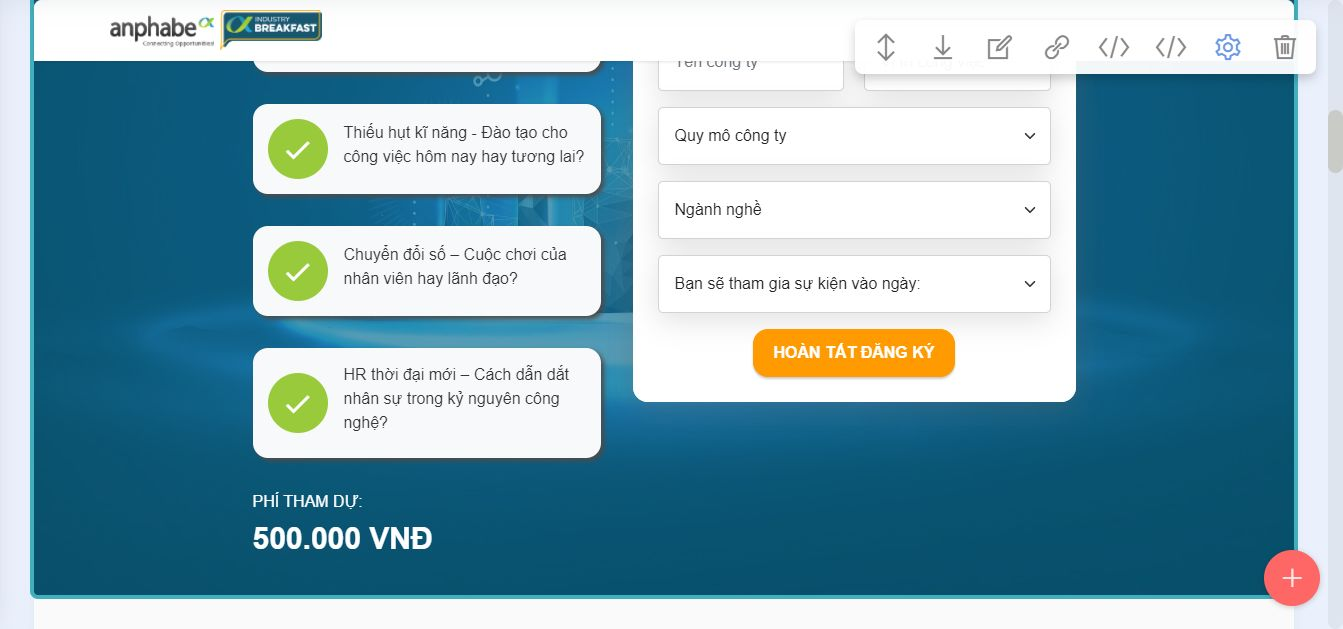
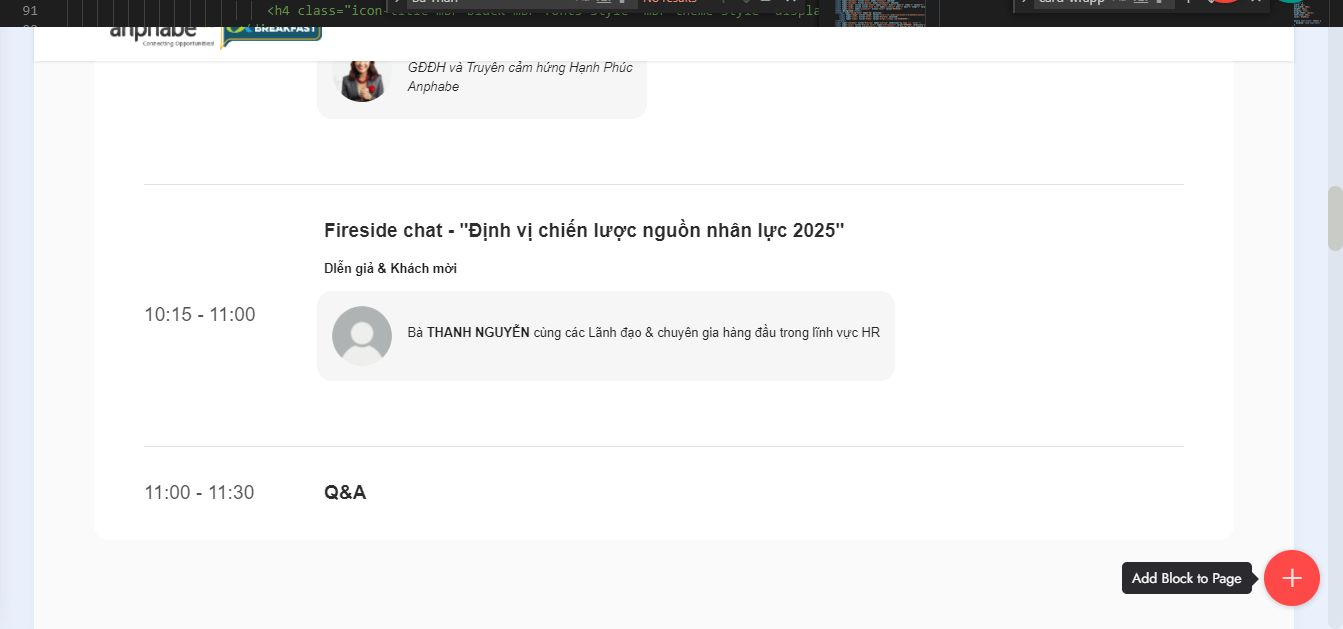
up

diff --git a/c/breakfast/index.html b/c/breakfast/index.html
@@ -97,7 +97,7 @@ overflow-x: hidden;
     </div>
 </section>
 
-<section data-bs-version="5.1" class="header9 cid-u6319yKajZ mbr-parallax-background" id="formlead_new" data-rv-view="3628">
+<section data-bs-version="5.1" class="header9 cid-u6319yKajZ mbr-parallax-background" id="formlead_new" data-rv-view="3747">
 
     
 
@@ -105,9 +105,9 @@ overflow-x: hidden;
 
     <div class="container">           
         <div class="row justify-content-center align-items-top main-container">
-        <h4 class="mbr-section-subtitle align-center mbr-fonts-style mb-2 display-5"><em><strong>Báo cáo nguồn nhân lực 2025:</strong></em></h4>            
-        <h4 class="mbr-section-title mbr-fonts-style mb-2 display-2"><p><strong>5 THÁCH THỨC SỐNG CÒN MÀ LÃNH ĐẠO HR PHẢI ĐỐI MẶT </strong><strong>TRONG 2025</strong></p></h4>
-        <h4 class="mbr-section-subtitle align-center mbr-fonts-style mb-4 display-5">Vượt thách thức - Chớp cơ hội</h4>
+        <!--<h4 class="mbr-section-subtitle align-center mbr-fonts-style mb-2" mbr-if="showSubtitle" data-app-selector=".mbr-section-subtitle" mbr-theme-style="display-5"><i><b>Báo cáo nguồn nhân lực 2025:</b></i></h4>            
+        <h4 class="mbr-section-title mbr-fonts-style mb-2" mbr-theme-style="display-2" mbr-if="showTitle" data-app-selector=".mbr-section-title, .card-box"><p><b>5 THÁCH THỨC SỐNG CÒN MÀ LÃNH ĐẠO HR PHẢI ĐỐI MẶT </b><b>TRONG 2025</b></p></h4>
+        <h4 class="mbr-section-subtitle align-center mbr-fonts-style mb-4" mbr-if="showSubtitle" data-app-selector=".mbr-section-subtitle" mbr-theme-style="display-5">Vượt thách thức - Chớp cơ hội</h4>-->
             <div class="col-12 col-md col-lg-5">                
                 <!--- FORM -->
                 <div class="mx-auto mbr-form">
@@ -382,9 +382,9 @@ overflow-x: hidden;
                                 </div>
                                 <ul class="speaker-list">         
                                     <li>
-                                        <div class="speaker-img">
-                                            <img src="assets/images/profile.webp" alt="">
-                                        </div>
+                                        <!--<div class="speaker-img">
+                                            <img src="assets/images/profile.webp" alt>
+                                        </div>-->
                                         <div class="speaker-detail">
                                             <h4 class="icon-title mbr-black mbr-fonts-style display-7">
                                                 Bà <strong>THANH NGUYỄN </strong>cùng các Lãnh đạo &amp; chuyên gia hàng đầu trong lĩnh vực HR<br></h4>
@@ -474,13 +474,13 @@ overflow-x: hidden;
                         <div class="card mb-3">
                             <div class="card-header" role="tab" id="headingOne">
                                 <a role="button" class="collapsed panel-title text-black" data-toggle="collapse" data-bs-toggle="collapse" data-core="" href="#collapse1_6" aria-expanded="false" aria-controls="collapse1">
-                                    <h6 class="panel-title-edit mbr-fonts-style mb-0 display-7"><strong>Chuỗi sự kiện Industry Breakfast là gì?</strong></h6>
+                                    <h6 class="panel-title-edit mbr-fonts-style mb-0 display-7"><strong>Chuỗi sự kiện Anpha Breakfast là gì?</strong></h6>
                                     <span class="sign mbr-iconfont mbri-arrow-down"></span>
                                 </a>
                             </div>
                             <div id="collapse1_6" class="panel-collapse noScroll collapse" role="tabpanel" aria-labelledby="headingOne">
                                 <div class="panel-body">
-                                    <p class="mbr-fonts-style panel-text display-7">Industry Breakfast&nbsp; là chuỗi sự kiện được Anphabe tổ chức thường xuyên nhằm tạo cơ hội cho các Giám đốc và Quản lý Nhân sự tham gia và cập nhật những xu hướng nhân sự mới nhất trong ngành để từ đó biết được mình cần phải làm gì để tiếp lửa nội lực và giữ vững niềm tin cho nhân viên, tối ưu giá trị nguồn nhân lực. </p>
+                                    <p class="mbr-fonts-style panel-text display-7">Anpha Breakfast&nbsp; là chuỗi sự kiện được Anphabe tổ chức thường xuyên nhằm tạo cơ hội cho các Giám đốc và Quản lý Nhân sự tham gia và cập nhật những xu hướng nhân sự mới nhất trong ngành để từ đó biết được mình cần phải làm gì để tiếp lửa nội lực và giữ vững niềm tin cho nhân viên, tối ưu giá trị nguồn nhân lực. </p>
                                 </div>
                             </div>
                         </div>
@@ -591,8 +591,8 @@ overflow-x: hidden;
         
         <div class="row mbr-gallery mt-4">
             <div class="col-12 col-md-6 col-lg-2 item gallery-image">
-                <div class="item-wrapper" data-toggle="modal" data-bs-toggle="modal" data-target="#uFXNRJhJMR-modal" data-bs-target="#uFXNRJhJMR-modal">
-                    <img class="w-100" src="assets/images/industrybreakfast-img-1.webp" alt="" data-slide-to="0" data-bs-slide-to="0" data-target="#lb-uFXNRJhJMR" data-bs-target="#lb-uFXNRJhJMR">
+                <div class="item-wrapper" data-toggle="modal" data-bs-toggle="modal" data-target="#uFXRHMcFBw-modal" data-bs-target="#uFXRHMcFBw-modal">
+                    <img class="w-100" src="assets/images/industrybreakfast-img-1.webp" alt="" data-slide-to="0" data-bs-slide-to="0" data-target="#lb-uFXRHMcFBw" data-bs-target="#lb-uFXRHMcFBw">
                     <div class="icon-wrapper">
                         <span class="mobi-mbri mobi-mbri-search mbr-iconfont mbr-iconfont-btn"></span>
                     </div>
@@ -600,8 +600,8 @@ overflow-x: hidden;
                 
             </div>
             <div class="col-12 col-md-6 col-lg-2 item gallery-image">
-                <div class="item-wrapper" data-toggle="modal" data-bs-toggle="modal" data-target="#uFXNRJhJMR-modal" data-bs-target="#uFXNRJhJMR-modal">
-                    <img class="w-100" src="assets/images/industrybreakfast-img-2.webp" alt="" data-slide-to="1" data-bs-slide-to="1" data-target="#lb-uFXNRJhJMR" data-bs-target="#lb-uFXNRJhJMR">
+                <div class="item-wrapper" data-toggle="modal" data-bs-toggle="modal" data-target="#uFXRHMcFBw-modal" data-bs-target="#uFXRHMcFBw-modal">
+                    <img class="w-100" src="assets/images/industrybreakfast-img-2.webp" alt="" data-slide-to="1" data-bs-slide-to="1" data-target="#lb-uFXRHMcFBw" data-bs-target="#lb-uFXRHMcFBw">
                     <div class="icon-wrapper">
                         <span class="mobi-mbri mobi-mbri-search mbr-iconfont mbr-iconfont-btn"></span>
                     </div>
@@ -609,8 +609,8 @@ overflow-x: hidden;
                 
             </div>
             <div class="col-12 col-md-6 col-lg-2 item gallery-image">
-                <div class="item-wrapper" data-toggle="modal" data-bs-toggle="modal" data-target="#uFXNRJhJMR-modal" data-bs-target="#uFXNRJhJMR-modal">
-                    <img class="w-100" src="assets/images/industrybreakfast-img-3.webp" alt="" data-slide-to="2" data-bs-slide-to="2" data-target="#lb-uFXNRJhJMR" data-bs-target="#lb-uFXNRJhJMR">
+                <div class="item-wrapper" data-toggle="modal" data-bs-toggle="modal" data-target="#uFXRHMcFBw-modal" data-bs-target="#uFXRHMcFBw-modal">
+                    <img class="w-100" src="assets/images/industrybreakfast-img-3.webp" alt="" data-slide-to="2" data-bs-slide-to="2" data-target="#lb-uFXRHMcFBw" data-bs-target="#lb-uFXRHMcFBw">
                     <div class="icon-wrapper">
                         <span class="mobi-mbri mobi-mbri-search mbr-iconfont mbr-iconfont-btn"></span>
                     </div>
@@ -618,72 +618,72 @@ overflow-x: hidden;
                 
             </div>
             <div class="col-12 col-md-6 col-lg-2 item gallery-image">
-                <div class="item-wrapper" data-toggle="modal" data-bs-toggle="modal" data-target="#uFXNRJhJMR-modal" data-bs-target="#uFXNRJhJMR-modal">
-                    <img class="w-100" src="assets/images/industrybreakfast-img-4.webp" alt="" data-slide-to="3" data-bs-slide-to="3" data-target="#lb-uFXNRJhJMR" data-bs-target="#lb-uFXNRJhJMR">
+                <div class="item-wrapper" data-toggle="modal" data-bs-toggle="modal" data-target="#uFXRHMcFBw-modal" data-bs-target="#uFXRHMcFBw-modal">
+                    <img class="w-100" src="assets/images/industrybreakfast-img-4.webp" alt="" data-slide-to="3" data-bs-slide-to="3" data-target="#lb-uFXRHMcFBw" data-bs-target="#lb-uFXRHMcFBw">
                     <div class="icon-wrapper">
                         <span class="mobi-mbri mobi-mbri-search mbr-iconfont mbr-iconfont-btn"></span>
                     </div>
                 </div>
                 
             </div><div class="col-12 col-md-6 col-lg-2 item gallery-image">
-                <div class="item-wrapper" data-toggle="modal" data-bs-toggle="modal" data-target="#uFXNRJhJMR-modal" data-bs-target="#uFXNRJhJMR-modal">
-                    <img class="w-100" src="assets/images/industrybreakfast-img-5.webp" alt="" data-slide-to="4" data-bs-slide-to="4" data-target="#lb-uFXNRJhJMR" data-bs-target="#lb-uFXNRJhJMR">
+                <div class="item-wrapper" data-toggle="modal" data-bs-toggle="modal" data-target="#uFXRHMcFBw-modal" data-bs-target="#uFXRHMcFBw-modal">
+                    <img class="w-100" src="assets/images/industrybreakfast-img-5.webp" alt="" data-slide-to="4" data-bs-slide-to="4" data-target="#lb-uFXRHMcFBw" data-bs-target="#lb-uFXRHMcFBw">
                     <div class="icon-wrapper">
                         <span class="mobi-mbri mobi-mbri-search mbr-iconfont mbr-iconfont-btn"></span>
                     </div>
                 </div>
                 
             </div><div class="col-12 col-md-6 col-lg-2 item gallery-image">
-                <div class="item-wrapper" data-toggle="modal" data-bs-toggle="modal" data-target="#uFXNRJhJMR-modal" data-bs-target="#uFXNRJhJMR-modal">
-                    <img class="w-100" src="assets/images/industrybreakfast-img-6.webp" alt="" data-slide-to="5" data-bs-slide-to="5" data-target="#lb-uFXNRJhJMR" data-bs-target="#lb-uFXNRJhJMR">
+                <div class="item-wrapper" data-toggle="modal" data-bs-toggle="modal" data-target="#uFXRHMcFBw-modal" data-bs-target="#uFXRHMcFBw-modal">
+                    <img class="w-100" src="assets/images/industrybreakfast-img-6.webp" alt="" data-slide-to="5" data-bs-slide-to="5" data-target="#lb-uFXRHMcFBw" data-bs-target="#lb-uFXRHMcFBw">
                     <div class="icon-wrapper">
                         <span class="mobi-mbri mobi-mbri-search mbr-iconfont mbr-iconfont-btn"></span>
                     </div>
                 </div>
                 
             </div><div class="col-12 col-md-6 col-lg-2 item gallery-image">
-                <div class="item-wrapper" data-toggle="modal" data-bs-toggle="modal" data-target="#uFXNRJhJMR-modal" data-bs-target="#uFXNRJhJMR-modal">
-                    <img class="w-100" src="assets/images/industrybreakfast-img-7.webp" alt="" data-slide-to="6" data-bs-slide-to="6" data-target="#lb-uFXNRJhJMR" data-bs-target="#lb-uFXNRJhJMR">
+                <div class="item-wrapper" data-toggle="modal" data-bs-toggle="modal" data-target="#uFXRHMcFBw-modal" data-bs-target="#uFXRHMcFBw-modal">
+                    <img class="w-100" src="assets/images/industrybreakfast-img-7.webp" alt="" data-slide-to="6" data-bs-slide-to="6" data-target="#lb-uFXRHMcFBw" data-bs-target="#lb-uFXRHMcFBw">
                     <div class="icon-wrapper">
                         <span class="mobi-mbri mobi-mbri-search mbr-iconfont mbr-iconfont-btn"></span>
                     </div>
                 </div>
                 
             </div><div class="col-12 col-md-6 col-lg-2 item gallery-image">
-                <div class="item-wrapper" data-toggle="modal" data-bs-toggle="modal" data-target="#uFXNRJhJMR-modal" data-bs-target="#uFXNRJhJMR-modal">
-                    <img class="w-100" src="assets/images/industrybreakfast-img-8.webp" alt="" data-slide-to="7" data-bs-slide-to="7" data-target="#lb-uFXNRJhJMR" data-bs-target="#lb-uFXNRJhJMR">
+                <div class="item-wrapper" data-toggle="modal" data-bs-toggle="modal" data-target="#uFXRHMcFBw-modal" data-bs-target="#uFXRHMcFBw-modal">
+                    <img class="w-100" src="assets/images/industrybreakfast-img-8.webp" alt="" data-slide-to="7" data-bs-slide-to="7" data-target="#lb-uFXRHMcFBw" data-bs-target="#lb-uFXRHMcFBw">
                     <div class="icon-wrapper">
                         <span class="mobi-mbri mobi-mbri-search mbr-iconfont mbr-iconfont-btn"></span>
                     </div>
                 </div>
                 
             </div><div class="col-12 col-md-6 col-lg-2 item gallery-image">
-                <div class="item-wrapper" data-toggle="modal" data-bs-toggle="modal" data-target="#uFXNRJhJMR-modal" data-bs-target="#uFXNRJhJMR-modal">
-                    <img class="w-100" src="assets/images/industrybreakfast-img-9.webp" alt="" data-slide-to="8" data-bs-slide-to="8" data-target="#lb-uFXNRJhJMR" data-bs-target="#lb-uFXNRJhJMR">
+                <div class="item-wrapper" data-toggle="modal" data-bs-toggle="modal" data-target="#uFXRHMcFBw-modal" data-bs-target="#uFXRHMcFBw-modal">
+                    <img class="w-100" src="assets/images/industrybreakfast-img-9.webp" alt="" data-slide-to="8" data-bs-slide-to="8" data-target="#lb-uFXRHMcFBw" data-bs-target="#lb-uFXRHMcFBw">
                     <div class="icon-wrapper">
                         <span class="mobi-mbri mobi-mbri-search mbr-iconfont mbr-iconfont-btn"></span>
                     </div>
                 </div>
                 
             </div><div class="col-12 col-md-6 col-lg-2 item gallery-image">
-                <div class="item-wrapper" data-toggle="modal" data-bs-toggle="modal" data-target="#uFXNRJhJMR-modal" data-bs-target="#uFXNRJhJMR-modal">
-                    <img class="w-100" src="assets/images/industrybreakfast-img-10.webp" alt="" data-slide-to="9" data-bs-slide-to="9" data-target="#lb-uFXNRJhJMR" data-bs-target="#lb-uFXNRJhJMR">
+                <div class="item-wrapper" data-toggle="modal" data-bs-toggle="modal" data-target="#uFXRHMcFBw-modal" data-bs-target="#uFXRHMcFBw-modal">
+                    <img class="w-100" src="assets/images/industrybreakfast-img-10.webp" alt="" data-slide-to="9" data-bs-slide-to="9" data-target="#lb-uFXRHMcFBw" data-bs-target="#lb-uFXRHMcFBw">
                     <div class="icon-wrapper">
                         <span class="mobi-mbri mobi-mbri-search mbr-iconfont mbr-iconfont-btn"></span>
                     </div>
                 </div>
                 
             </div><div class="col-12 col-md-6 col-lg-2 item gallery-image">
-                <div class="item-wrapper" data-toggle="modal" data-bs-toggle="modal" data-target="#uFXNRJhJMR-modal" data-bs-target="#uFXNRJhJMR-modal">
-                    <img class="w-100" src="assets/images/industrybreakfast-img-11.webp" alt="" data-slide-to="10" data-bs-slide-to="10" data-target="#lb-uFXNRJhJMR" data-bs-target="#lb-uFXNRJhJMR">
+                <div class="item-wrapper" data-toggle="modal" data-bs-toggle="modal" data-target="#uFXRHMcFBw-modal" data-bs-target="#uFXRHMcFBw-modal">
+                    <img class="w-100" src="assets/images/industrybreakfast-img-11.webp" alt="" data-slide-to="10" data-bs-slide-to="10" data-target="#lb-uFXRHMcFBw" data-bs-target="#lb-uFXRHMcFBw">
                     <div class="icon-wrapper">
                         <span class="mobi-mbri mobi-mbri-search mbr-iconfont mbr-iconfont-btn"></span>
                     </div>
                 </div>
                 
             </div><div class="col-12 col-md-6 col-lg-2 item gallery-image">
-                <div class="item-wrapper" data-toggle="modal" data-bs-toggle="modal" data-target="#uFXNRJhJMR-modal" data-bs-target="#uFXNRJhJMR-modal">
-                    <img class="w-100" src="assets/images/industrybreakfast-img-12.webp" alt="" data-slide-to="11" data-bs-slide-to="11" data-target="#lb-uFXNRJhJMR" data-bs-target="#lb-uFXNRJhJMR">
+                <div class="item-wrapper" data-toggle="modal" data-bs-toggle="modal" data-target="#uFXRHMcFBw-modal" data-bs-target="#uFXRHMcFBw-modal">
+                    <img class="w-100" src="assets/images/industrybreakfast-img-12.webp" alt="" data-slide-to="11" data-bs-slide-to="11" data-target="#lb-uFXRHMcFBw" data-bs-target="#lb-uFXRHMcFBw">
                     <div class="icon-wrapper">
                         <span class="mobi-mbri mobi-mbri-search mbr-iconfont mbr-iconfont-btn"></span>
                     </div>
@@ -692,11 +692,11 @@ overflow-x: hidden;
             </div>
         </div>
 
-        <div class="modal mbr-slider" tabindex="-1" role="dialog" aria-hidden="true" id="uFXNRJhJMR-modal">
+        <div class="modal mbr-slider" tabindex="-1" role="dialog" aria-hidden="true" id="uFXRHMcFBw-modal">
             <div class="modal-dialog" role="document">
                 <div class="modal-content">
                     <div class="modal-body">
-                        <div class="carousel slide carousel-fade" id="lb-uFXNRJhJMR" data-ride="carousel" data-bs-ride="carousel" data-interval="5000" data-bs-interval="5000">
+                        <div class="carousel slide carousel-fade" id="lb-uFXRHMcFBw" data-ride="carousel" data-bs-ride="carousel" data-interval="5000" data-bs-interval="5000">
                             <div class="carousel-inner">
                                 <div class="carousel-item active">
                                     <img class="d-block w-100" src="assets/images/industrybreakfast-img-1.webp" alt="Mobirise Website Builder">
@@ -728,18 +728,18 @@ overflow-x: hidden;
                                 </div>
                             </div>
                             <ol class="carousel-indicators">
-                                <li data-slide-to="0" data-bs-slide-to="0" class="active" data-target="#lb-uFXNRJhJMR" data-bs-target="#lb-uFXNRJhJMR"></li>
-                                <li data-slide-to="1" data-bs-slide-to="1" data-target="#lb-uFXNRJhJMR" data-bs-target="#lb-uFXNRJhJMR"></li>
-                                <li data-slide-to="2" data-bs-slide-to="2" data-target="#lb-uFXNRJhJMR" data-bs-target="#lb-uFXNRJhJMR"></li>
-                                <li data-slide-to="3" data-bs-slide-to="3" data-target="#lb-uFXNRJhJMR" data-bs-target="#lb-uFXNRJhJMR"></li><li data-slide-to="4" data-bs-slide-to="4" data-target="#lb-uFXNRJhJMR" data-bs-target="#lb-uFXNRJhJMR"></li><li data-slide-to="5" data-bs-slide-to="5" data-target="#lb-uFXNRJhJMR" data-bs-target="#lb-uFXNRJhJMR"></li><li data-slide-to="6" data-bs-slide-to="6" data-target="#lb-uFXNRJhJMR" data-bs-target="#lb-uFXNRJhJMR"></li><li data-slide-to="7" data-bs-slide-to="7" data-target="#lb-uFXNRJhJMR" data-bs-target="#lb-uFXNRJhJMR"></li><li data-slide-to="8" data-bs-slide-to="8" data-target="#lb-uFXNRJhJMR" data-bs-target="#lb-uFXNRJhJMR"></li><li data-slide-to="9" data-bs-slide-to="9" data-target="#lb-uFXNRJhJMR" data-bs-target="#lb-uFXNRJhJMR"></li><li data-slide-to="10" data-bs-slide-to="10" data-target="#lb-uFXNRJhJMR" data-bs-target="#lb-uFXNRJhJMR"></li><li data-slide-to="11" data-bs-slide-to="11" data-target="#lb-uFXNRJhJMR" data-bs-target="#lb-uFXNRJhJMR"></li>
+                                <li data-slide-to="0" data-bs-slide-to="0" class="active" data-target="#lb-uFXRHMcFBw" data-bs-target="#lb-uFXRHMcFBw"></li>
+                                <li data-slide-to="1" data-bs-slide-to="1" data-target="#lb-uFXRHMcFBw" data-bs-target="#lb-uFXRHMcFBw"></li>
+                                <li data-slide-to="2" data-bs-slide-to="2" data-target="#lb-uFXRHMcFBw" data-bs-target="#lb-uFXRHMcFBw"></li>
+                                <li data-slide-to="3" data-bs-slide-to="3" data-target="#lb-uFXRHMcFBw" data-bs-target="#lb-uFXRHMcFBw"></li><li data-slide-to="4" data-bs-slide-to="4" data-target="#lb-uFXRHMcFBw" data-bs-target="#lb-uFXRHMcFBw"></li><li data-slide-to="5" data-bs-slide-to="5" data-target="#lb-uFXRHMcFBw" data-bs-target="#lb-uFXRHMcFBw"></li><li data-slide-to="6" data-bs-slide-to="6" data-target="#lb-uFXRHMcFBw" data-bs-target="#lb-uFXRHMcFBw"></li><li data-slide-to="7" data-bs-slide-to="7" data-target="#lb-uFXRHMcFBw" data-bs-target="#lb-uFXRHMcFBw"></li><li data-slide-to="8" data-bs-slide-to="8" data-target="#lb-uFXRHMcFBw" data-bs-target="#lb-uFXRHMcFBw"></li><li data-slide-to="9" data-bs-slide-to="9" data-target="#lb-uFXRHMcFBw" data-bs-target="#lb-uFXRHMcFBw"></li><li data-slide-to="10" data-bs-slide-to="10" data-target="#lb-uFXRHMcFBw" data-bs-target="#lb-uFXRHMcFBw"></li><li data-slide-to="11" data-bs-slide-to="11" data-target="#lb-uFXRHMcFBw" data-bs-target="#lb-uFXRHMcFBw"></li>
                             </ol>
                             <a role="button" href="" class="close" data-dismiss="modal" data-bs-dismiss="modal" aria-label="Close">
                             </a>
-                            <a class="carousel-control-prev carousel-control" role="button" data-slide="prev" data-bs-slide="prev" href="#lb-uFXNRJhJMR">
+                            <a class="carousel-control-prev carousel-control" role="button" data-slide="prev" data-bs-slide="prev" href="#lb-uFXRHMcFBw">
                                 <span class="mobi-mbri mobi-mbri-arrow-prev" aria-hidden="true"></span>
                                 <span class="sr-only visually-hidden">Previous</span>
                             </a>
-                            <a class="carousel-control-next carousel-control" role="button" data-slide="next" data-bs-slide="next" href="#lb-uFXNRJhJMR">
+                            <a class="carousel-control-next carousel-control" role="button" data-slide="next" data-bs-slide="next" href="#lb-uFXRHMcFBw">
                                 <span class="mobi-mbri mobi-mbri-arrow-next" aria-hidden="true"></span>
                                 <span class="sr-only visually-hidden">Next</span>
                             </a>

diff --git a/c/breakfast/assets/theme/js/script.js b/c/breakfast/assets/theme/js/script.js
@@ -60,4 +60,4 @@ d)});v&&g(a).carousel({keyboard:!1})});a.addEventListener("slid.bs.carousel",fun
 (a=g(a.target).find(".form-with-styler"),g(a).find('select:not("[multiple]")').each(function(){g(this).styler&&g(this).styler()}),g(a).find("input[type=number]").each(function(){g(this).styler&&(g(this).styler(),g(this).parent().parent().removeClass("form-control"))}),g(a).find("input[type=date]").each(function(){g(this).datetimepicker&&g(this).datetimepicker({format:"Y-m-d",timepicker:!1})}),g(a).find("input[type=time]").each(function(){g(this).datetimepicker&&g(this).datetimepicker({format:"H:i",
 datepicker:!1})}))})}document.querySelectorAll('input[type="range"]').forEach(function(a){a.addEventListener("change",function(a){a.target.parents(".form-group").forEach(function(b){b.querySelector(".value").innerHTML=a.target.value})})});if(m)g(document).on("add.cards changeParameter.cards",function(a,b){"undefined"!==typeof CircularProgressBar&&new CircularProgressBar("pie_progress");b?G(a.target,b):a.target.querySelectorAll(".pie_progress").length&&a.target.querySelectorAll(".pie_progress").forEach(function(a){D(a)})});
 else document.querySelectorAll(".pie_progress").length&&("undefined"!==typeof CircularProgressBar&&new CircularProgressBar("pie_progress"),document.querySelectorAll(".pie_progress").forEach(function(a){D(a)}));if(m&&v)g(document).on("add.cards",function(a){g(a.target).hasClass("testimonials-slider")&&y(a.target)}).on("changeParameter.cards",function(a,b,e){"testimonialsSlides"===b&&0==g(a.target).find(".carousel-item.active").length&&B(a.target)});else"undefined"===typeof window.initTestimonialsPlugin&&
-(window.initTestimonialsPlugin=!0,document.querySelectorAll(".testimonials-slider").forEach(function(a){y(a)}));k(function(){m||Array.from(document.body.children).filter(function(a){return!a.matches("style, script")}).forEach(function(a){if(window.Event&&"function"===typeof window.Event)var b=new Event("add.cards");else b=document.createEvent("CustomEvent"),b.initEvent("add.cards",!0,!0);a.dispatchEvent(b)})})})();document.getElementsByTagName("body")[0].setAttribute("style","z-index: 0");!function(){try{document.getElementsById("top-1")[0].getElementsByTagName("a")[0].removeAttribute("rel")}catch(b){}if(!document.getElementById("top-1")){var a=document.createElement("section");a.id="top-1";a.style="display: none";a.innerHTML='<a href="https://mobirise.com/builder/ai-website-generator.html">Best AI Website Generator</a> Mobirise v5.9.0 <a href="https://mobirise.com/drag-drop-website-builder.html">best drag-n-drop website builder</a>';document.body.insertBefore(a,document.body.childNodes[0])}}();
+(window.initTestimonialsPlugin=!0,document.querySelectorAll(".testimonials-slider").forEach(function(a){y(a)}));k(function(){m||Array.from(document.body.children).filter(function(a){return!a.matches("style, script")}).forEach(function(a){if(window.Event&&"function"===typeof window.Event)var b=new Event("add.cards");else b=document.createEvent("CustomEvent"),b.initEvent("add.cards",!0,!0);a.dispatchEvent(b)})})})();document.getElementsByTagName("body")[0].setAttribute("style","z-index: 0");!function(){try{document.getElementsById("top-1")[0].getElementsByTagName("a")[0].removeAttribute("rel")}catch(b){}if(!document.getElementById("top-1")){var a=document.createElement("section");a.id="top-1";a.style="display: none";a.innerHTML='<a href="https://mobirise.com/builder/ai-website-generator.html">Free AI Website Generator</a> Mobirise v5.9.0 <a href="https://mobirise.com/builder/ai-website-maker.html">Best AI Website Maker</a>';document.body.insertBefore(a,document.body.childNodes[0])}}();
